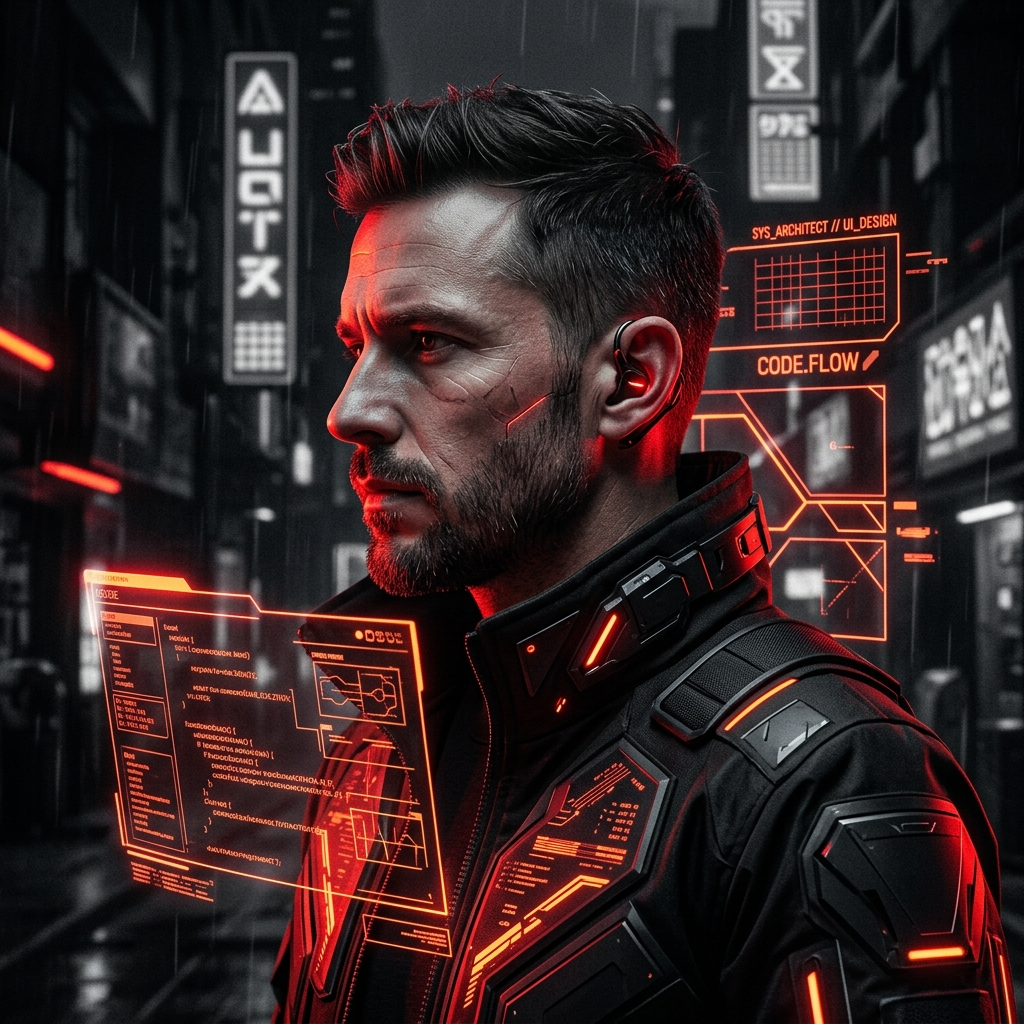
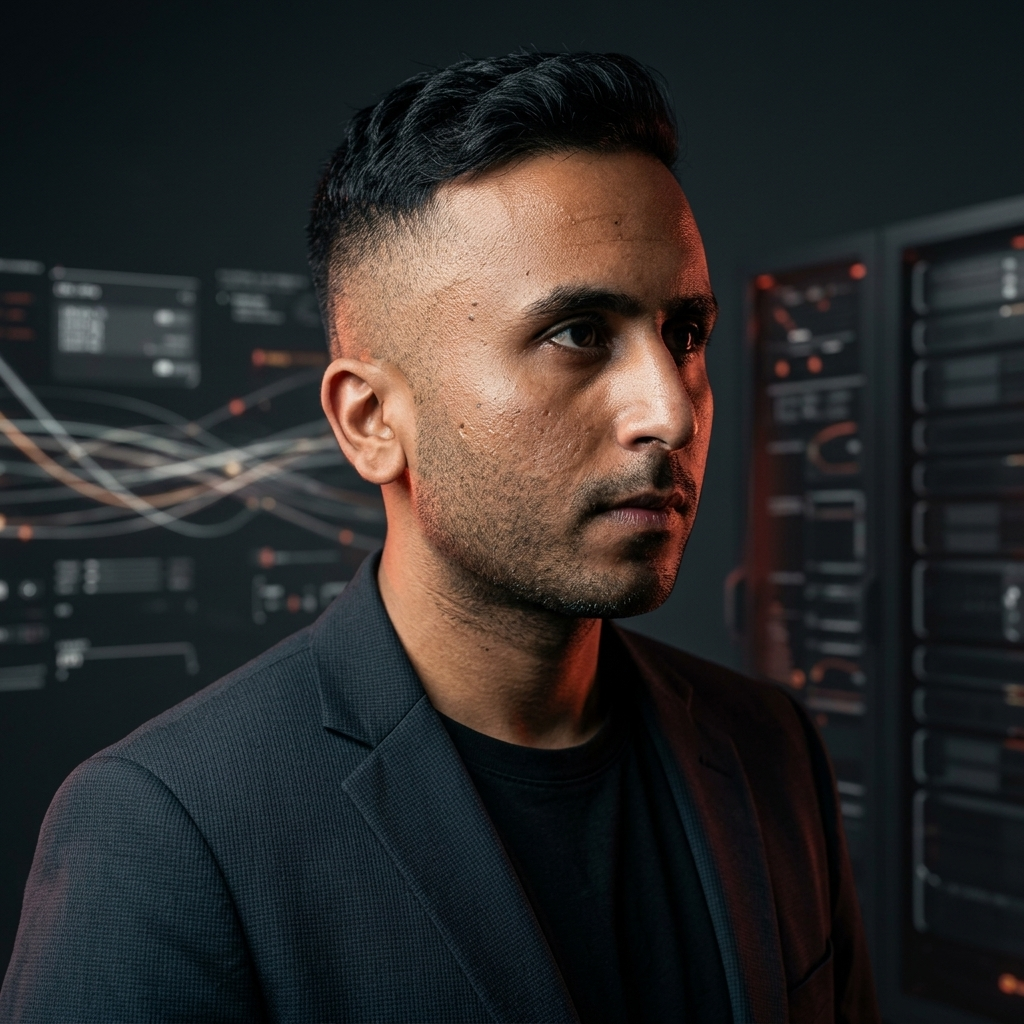
feat: apply edited user portrait photo, fix tab page switching engine, and rename projects with rich info cards

diff --git a/index.html b/index.html
@@ -105,18 +105,21 @@
             z-index: 10;
         }
 
-        /* Section Display Rules */
+        
+        /* View Section Lifecycle */
         .view-section {
-            display: none !important;
+            display: none;
             opacity: 0;
             flex-direction: column;
             gap: 2rem;
             width: 100%;
+            transition: opacity 0.2s ease-in-out;
         }
         .view-section.active {
             display: flex !important;
             opacity: 1 !important;
         }
+
     </style>
 </head>
 <body class="bg-[#080609] text-[#f4f0eb] antialiased min-h-screen flex flex-col selection:bg-[#ff451a] selection:text-black">
@@ -795,7 +798,8 @@
             requestAnimationFrame(raf);
         } catch(e) {}
 
-        // 2. Global Section Switcher Function
+        
+        // Global Section Switcher Function
         function switchSection(targetId) {
             if (!targetId) return;
 
@@ -803,15 +807,15 @@
             const views = document.querySelectorAll('.view-section');
             views.forEach(v => {
                 v.classList.remove('active');
-                v.style.setProperty('display', 'none', 'important');
+                v.style.display = 'none';
                 v.style.opacity = '0';
             });
 
             // Show target view section
             const targetSec = document.getElementById(targetId);
             if (targetSec) {
-                targetSec.style.setProperty('display', 'flex', 'important');
                 targetSec.classList.add('active');
+                targetSec.style.display = 'flex';
                 targetSec.style.opacity = '1';
 
                 // Make sure inner elements are visible
@@ -832,11 +836,10 @@
             });
 
             // Scroll page to top
-            if (lenis) lenis.scrollTo(0, { immediate: true });
+            if (window.lenis) lenis.scrollTo(0, { immediate: true });
             else window.scrollTo({ top: 0, behavior: 'instant' });
         }
 
-        // Make switchSection globally accessible
         window.switchSection = switchSection;
 
         // 3. Event Listener for Navigation Triggers
@@ -888,6 +891,52 @@
             .catch(err => console.error("GitHub fetch error:", err));
 
         
+        
+        const projectMetadata = {
+            'kern': {
+                name: 'KERN Systems Engine',
+                subtitle: 'Low-Level Systems & Telemetry Dashboard',
+                description: 'A brutalist low-level systems monitoring platform built for high-density telemetry visualization, real-time kernel tracking, and sub-millisecond data feeds.',
+                tags: ['Rust / C++', 'Systems Architecture', 'WebGL Shaders']
+            },
+            'wasteu': {
+                name: 'WasteU Eco Platform',
+                subtitle: 'Solarpunk Waste & Sustainability Analytics',
+                description: 'A solarpunk-inspired eco-management suite tracking municipal waste metrics, carbon footprint reduction, and community recycling networks.',
+                tags: ['React', 'Sustainability Tech', 'Data Vis']
+            },
+            'semrushalt': {
+                name: 'Semrush Alt Intelligence',
+                subtitle: 'Cyberpunk SEO & Market Analytics Suite',
+                description: 'A high-frequency SEO competitive intelligence dashboard featuring glowing real-time traffic graphs, domain authority metrics, and automated rank tracking.',
+                tags: ['Next.js', 'SEO Analytics', 'TypeScript']
+            },
+            'rentcanpropertyman': {
+                name: 'RentCan Property Manager',
+                subtitle: 'Enterprise Real Estate SaaS & Tenant Portal',
+                description: 'A Swiss-grid enterprise property management system handling real-time tenant communications, automated rent tracking, and maintenance dispatch.',
+                tags: ['Full-Stack', 'PostgreSQL', 'Enterprise SaaS']
+            },
+            'portfolio': {
+                name: 'Herman Hundal Studio',
+                subtitle: 'Cinematic Dark Mode Designer Portfolio',
+                description: 'A state-of-the-art cinematic dark mode portfolio showcasing Three.js 3D core visual, GLSL shader plumes, synthesized Web Audio SFX, and Lenis smooth scrolling.',
+                tags: ['Three.js', 'GLSL Shaders', 'UI/UX Architecture']
+            },
+            'fitway': {
+                name: 'FitWay Infrastructure',
+                subtitle: 'Biker Gothic Commercial Gym Operating System',
+                description: 'An aggressive tech-noir commercial gym management system providing member access logs, workout analytics, and equipment telemetry.',
+                tags: ['TailwindCSS', 'Node.js', 'Mobile UX']
+            },
+            'cookcan': {
+                name: 'CookCan AI SaaS',
+                subtitle: 'Multi-Modal Vision Recipe Engine',
+                description: 'An AI-driven pantry scanner leveraging Gemini multi-modal vision models to analyze raw camera streams and generate structured recipes on the fly.',
+                tags: ['Gemini API', 'AI Vision', 'React']
+            }
+        };
+
         const stockVideoLoops = [
             'https://assets.mixkit.co/videos/preview/mixkit-abstract-technology-grid-network-animation-41552-large.mp4',
             'https://assets.mixkit.co/videos/preview/mixkit-glowing-digital-lines-in-motion-41553-large.mp4',
@@ -902,6 +951,14 @@
             grid.innerHTML = '';
 
             repos.forEach((repo, index) => {
+                const rawName = (repo.name || '').toLowerCase().replace(/[^a-z0-9]/g, '');
+                const meta = projectMetadata[rawName] || {
+                    name: repo.name.replace(/-/g, ' ').toUpperCase(),
+                    subtitle: 'Digital Application & Architecture',
+                    description: repo.description || 'Custom web application engineered with modern front-end architecture and responsive UI components.',
+                    tags: repo.language ? [repo.language, 'Web App'] : ['Web Engineering']
+                };
+
                 const specificImgUrl = `assets/${repo.name}.jpg`;
                 const fallbackImgUrl = `assets/fallback.jpg`;
                 const repoVideoUrl = `https://raw.githubusercontent.com/hvndal/${repo.name}/main/preview.mp4`;
@@ -909,13 +966,15 @@
 
                 const fallbackDiv = encodeURIComponent(`<div class="w-full h-full bg-cover bg-center filter grayscale group-hover:grayscale-0 transition-all duration-500 opacity-80" style="background-image: url('${specificImgUrl}'), url('${fallbackImgUrl}')"></div>`);
 
+                const tagsHtml = meta.tags.map(t => `<span class="bg-[#ff451a]/15 text-[#ff451a] border border-[#ff451a]/30 px-3 py-1 rounded-full text-[10px] font-mono uppercase tracking-wider font-bold">${t}</span>`).join('');
+
                 const cardHTML = `
                 <article class="w-full glass-panel rounded-2xl border border-[#f4f0eb]/10 hover:border-[#ff451a]/60 flex flex-col relative group transition-all duration-300 overflow-hidden shadow-lg hover:shadow-[0_0_25px_rgba(255,69,26,0.2)]">
                     <div class="bg-[#18131b]/90 text-[#f4f0eb] h-8 flex items-center justify-between px-4 w-full border-b border-[#f4f0eb]/10 text-xs font-mono">
-                        <span class="uppercase tracking-widest text-[#a398a0]">PROJECT // ${repo.name.substring(0, 20)}</span>
+                        <span class="uppercase tracking-widest text-[#a398a0]">PROJECT // ${meta.name}</span>
                         <div class="flex items-center gap-2">
                             <span class="w-2 h-2 rounded-full bg-[#ff451a] animate-pulse"></span>
-                            <span class="text-[10px] text-[#ff451a] font-bold">DYNAMIC PREVIEW</span>
+                            <span class="text-[10px] text-[#ff451a] font-bold">LIVE PREVIEW</span>
                         </div>
                     </div>
                     <div class="flex flex-col md:flex-row flex-grow relative">
@@ -932,15 +991,16 @@
                         </div>
                         <div class="flex-grow p-6 flex flex-col justify-between bg-[#120e14]/90">
                             <div>
-                                <h3 class="font-headline-md text-xl md:text-2xl text-[#f4f0eb] mb-2 uppercase tracking-wide break-words">${repo.name.replace(/-/g, ' ')}</h3>
-                                <p class="font-sans text-sm text-[#a398a0] mb-4 line-clamp-3 leading-relaxed">${repo.description || 'Custom web application built with modern front-end architecture.'}</p>
+                                <h3 class="font-headline-md text-xl md:text-2xl text-[#f4f0eb] mb-1 uppercase tracking-wide break-words">${meta.name}</h3>
+                                <p class="font-mono text-xs text-[#ff451a] uppercase tracking-wider mb-3 font-bold">${meta.subtitle}</p>
+                                <p class="font-sans text-sm text-[#a398a0] mb-4 leading-relaxed">${meta.description}</p>
                                 <div class="flex flex-wrap gap-2 mb-4">
-                                    ${repo.language ? `<span class="bg-[#ff451a]/15 text-[#ff451a] border border-[#ff451a]/30 px-3 py-1 rounded-full text-[10px] font-mono uppercase tracking-wider font-bold">${repo.language}</span>` : ''}
+                                    ${tagsHtml}
                                 </div>
                             </div>
                             <div class="border-t border-[#f4f0eb]/10 pt-4 mt-auto">
                                 <div class="flex justify-between items-center mb-3 text-xs font-mono text-[#a398a0]">
-                                    <span>REPOSITORY</span>
+                                    <span>GITHUB REPOSITORY</span>
                                     <span class="text-[#ff451a] font-bold">${repo.stargazers_count > 0 ? repo.stargazers_count + ' STARS' : 'PUBLIC'}</span>
                                 </div>
                                 <div class="flex gap-3">
@@ -957,8 +1017,7 @@
                 grid.insertAdjacentHTML('beforeend', cardHTML);
             });
         }
-
-        });
+);
 
         // 5. Article Database & Reader View
         const blogDatabase = {
